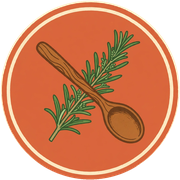
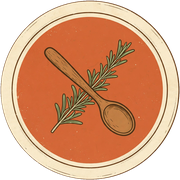
feat(brand): The Recipe Nook - brand pass (name from owner shortlist under branding delegation, regenerated mark + hero, lockups/OG recomposed, seed v2, domain therecipenook.getemoji.site)

diff --git a/wp-content/themes/recipes-site/style.css b/wp-content/themes/recipes-site/style.css
@@ -1,8 +1,8 @@
 /*
 Theme Name: Recipes Site
-Theme URI: https://untitledrecipes.getemoji.site
-Description: Child theme of Viral Reader for UNTITLED RECIPES SITE (PLACEHOLDER BRAND — the real name lands in the brand pass; the one config place is content/site-profile.json) — a UK recipes and kitchen know-how site: breakfasts, mains, desserts & baking, quick & easy recipes, kitchen tips and cooking guides. Warm light skin, multi-rail homepage, two-axis taxonomy (pillar categories + cuisine/method/occasion/diet tag hubs), recipe-native on the kepoli engine (build-v9 recipe card + schema.org/Recipe from the plugin, vr_noun=recipe). All presentation lives in assets/recipes-site.css (inlined by functions.php); this file carries the header only.
-Author: UNTITLED RECIPES SITE Team
+Theme URI: https://therecipenook.getemoji.site
+Description: Child theme of Viral Reader for The Recipe Nook (brand decided 2026-11-06; the one config place is content/site-profile.json) — a UK recipes and kitchen know-how site: breakfasts, mains, desserts & baking, quick & easy recipes, kitchen tips and cooking guides. Warm light skin, multi-rail homepage, two-axis taxonomy (pillar categories + cuisine/method/occasion/diet tag hubs), recipe-native on the kepoli engine (build-v9 recipe card + schema.org/Recipe from the plugin, vr_noun=recipe). All presentation lives in assets/recipes-site.css (inlined by functions.php); this file carries the header only.
+Author: The Recipe Nook Team
 Template: viral-reader
 Version: 1.0.0
 Text Domain: recipes-site

diff --git a/brand/brand_compose.py b/brand/brand_compose.py
@@ -1,20 +1,21 @@
 #!/usr/bin/env python3
-"""Recipes site (PLACEHOLDER BRAND) brand pack: icon set, logo lockups, OG card +
+"""The Recipe Nook brand pack: icon set, logo lockups, OG card +
 theme assets from generated art.
 
 Type is composited here (Anton), never baked by an image model. Run from the repo root:
     python3 brand/brand_compose.py
 Reads the two raw generations in this folder and writes the pack here, the child theme's
-assets/brand/ set, and content/images/. When the owner picks the real brand, regenerate
-the mark/hero, change the lockup text below, and re-run."""
+assets/brand/ set, and content/images/. Brand decided 2026-11-06: The Recipe Nook
+(owner delegated branding; picked from his shortlist). To refresh the pack, replace the
+raw art, keep the lockup text below in sync with content/site-profile.json, and re-run."""
 from PIL import Image, ImageDraw, ImageFont, ImageOps
 import os
 
 BASE = os.path.dirname(os.path.abspath(__file__))
 REPO = os.path.dirname(BASE)
 FONT = os.path.expanduser('~/.fonts/Anton-Regular.ttf')
-MARK = f'{BASE}/media-generation-recipes-site-mark-0-b9895246-6cf7-49c4-b437-67087f4ffdb9.webp'
-HERO = f'{BASE}/media-generation-recipes-site-hero-0-ec6d04b5-831e-4bc9-99a2-d353adc425c7.webp'
+MARK = f'{BASE}/media-generation-recipenook-mark-0-ded535e9-360b-401f-8ea4-e870726acf46.webp'
+HERO = f'{BASE}/media-generation-recipenook-hero-0-f7eca9fb-42ec-4a39-8079-d7a6d2d4608e.webp'
 THEME_BRAND = f'{REPO}/wp-content/themes/recipes-site/assets/brand'
 CONTENT_IMG = f'{REPO}/content/images'
 os.makedirs(THEME_BRAND, exist_ok=True)
@@ -30,8 +31,8 @@ GOLD = (217, 164, 65)
 art = Image.open(MARK).convert('RGB')
 S = min(art.size)
 art = art.crop(((art.width - S) // 2, (art.height - S) // 2, (art.width + S) // 2, (art.height + S) // 2)).resize((1024, 1024), Image.LANCZOS)
-# The badge fills ~82% of the frame, centred: crop to it, then circular-mask.
-art = art.crop((92, 92, 932, 932)).resize((1024, 1024), Image.LANCZOS)
+# The badge spans 132-1476px of the 1600px art (84-945 at 1024 scale), centred: crop to it, then circular-mask.
+art = art.crop((84, 84, 945, 945)).resize((1024, 1024), Image.LANCZOS)
 mask = Image.new('L', (1024, 1024), 0)
 md = ImageDraw.Draw(mask)
 md.ellipse([4, 4, 1020, 1020], fill=255)
@@ -49,7 +50,7 @@ def lockup(col_main, col_accent, path):
     f_title = ImageFont.truetype(FONT, 104)
     f_tag = ImageFont.truetype(FONT, 38)
     tmp = ImageDraw.Draw(Image.new('RGBA', (10, 10)))
-    parts = [('UNTITLED ', col_main), ('RECIPES', col_accent)]
+    parts = [('THE RECIPE ', col_main), ('NOOK', col_accent)]
     tw = sum(tmp.textlength(t, font=f_title) for t, _c in parts)
     tag = 'R E C I P E S   ·   T I P S   ·   G U I D E S'
     gw = tmp.textlength(tag, font=f_tag)
@@ -80,9 +81,9 @@ emb = icon.resize((150, 150), Image.LANCZOS)
 og.paste(emb, (48, 630 - 150 - 42), emb)
 f = ImageFont.truetype(FONT, 84)
 x = 224
-d.text((x, 630 - 172), 'UNTITLED ', font=f, fill=CREAM)
-x += d.textlength('UNTITLED ', font=f)
-d.text((x, 630 - 172), 'RECIPES', font=f, fill=GOLD)
+d.text((x, 630 - 172), 'THE RECIPE ', font=f, fill=CREAM)
+x += d.textlength('THE RECIPE ', font=f)
+d.text((x, 630 - 172), 'NOOK', font=f, fill=GOLD)
 og.save(f'{BASE}/og.jpg', quality=88)
 print('og done')
 

diff --git a/seed/seed.php b/seed/seed.php
@@ -2,8 +2,8 @@
 /**
  * Recipes site seed — run by docker/site-init.sh via `wp eval-file` on every start.
  *
- * PLACEHOLDER BRAND: the site name/tagline come from content/site-profile.json
- * (brand.name currently "UNTITLED RECIPES SITE" until the owner picks the real brand).
+ * BRAND: the site name/tagline come from content/site-profile.json
+ * (brand.name = "The Recipe Nook" since the 2026-11-06 brand pass).
  *
  * Brand facts are read from content/site-profile.json (the ONE config place); the literals
  * below are fallbacks and must stay in sync with that file. A brand change is applied by
@@ -16,10 +16,10 @@
 
 if ( ! defined( 'ABSPATH' ) ) { exit; }
 
-const RC_SEED_VERSION = 1;
+const RC_SEED_VERSION = 2;
 const RC_DATA         = '/opt/site/data';
 const RC_BRAND_DIR    = WP_CONTENT_DIR . '/themes/recipes-site/assets/brand';
-const RC_AUTHOR_BIO   = 'UNTITLED RECIPES SITE is cooked and written by UK home cooks and recipe writers. Every recipe is written to be cooked from: plain steps, UK measurements first (grams, Celsius and gas mark), and times and yields stated exactly as they are — we never invent testing claims, ratings or results.';
+const RC_AUTHOR_BIO   = 'The Recipe Nook is cooked and written by UK home cooks and recipe writers. Every recipe is written to be cooked from: plain steps, UK measurements first (grams, Celsius and gas mark), and times and yields stated exactly as they are — we never invent testing claims, ratings or results.';
 
 require_once ABSPATH . 'wp-admin/includes/media.php';
 require_once ABSPATH . 'wp-admin/includes/file.php';
@@ -76,7 +76,7 @@ function rc_page( $slug, $title, $html, $status = 'publish' ) {
 function rc_seed_author() {
 	$p    = rc_profile();
 	$uid  = rc_admin_id();
-	$name = (string) ( $p['writer']['name'] ?? 'UNTITLED RECIPES SITE Team' );
+	$name = (string) ( $p['writer']['name'] ?? 'The Recipe Nook Team' );
 	$bio  = (string) ( $p['writer']['bio'] ?? RC_AUTHOR_BIO );
 	wp_update_user( array( 'ID' => $uid, 'display_name' => $name, 'nickname' => $name, 'description' => $bio ) );
 	$avatar = rc_brand_media( 'recipes-site-icon-512.png', $name );
@@ -124,7 +124,7 @@ function rc_hubs() {
 
 function rc_seed_site() {
 	$p    = rc_profile();
-	$name = (string) ( $p['brand']['name'] ?? 'UNTITLED RECIPES SITE' );
+	$name = (string) ( $p['brand']['name'] ?? 'The Recipe Nook' );
 	$tag  = (string) ( $p['brand']['tagline'] ?? 'Recipes · Kitchen Tips · Cooking Guides' );
 	$mail = rc_site_email();
 

diff --git a/wp-content/themes/recipes-site/functions.php b/wp-content/themes/recipes-site/functions.php
@@ -1,6 +1,6 @@
 <?php
 /**
- * UNTITLED RECIPES SITE (theme slug "recipes-site") — child theme of Viral Reader for a UK
+ * The Recipe Nook (theme slug "recipes-site") — child theme of Viral Reader for a UK
  * recipes and kitchen know-how site, read mostly from social feeds and search on phones.
  * PLACEHOLDER BRAND: the working title lives in content/site-profile.json; when the owner
  * picks the real brand it is applied in one pass (this file's strings included).

diff --git a/brand/BRAND.md b/brand/BRAND.md
@@ -1,18 +1,19 @@
-# UNTITLED RECIPES SITE — brand sheet (PLACEHOLDER)
+# The Recipe Nook — brand sheet
 
-**⚠ PLACEHOLDER BRAND.** The owner is picking the real name in parallel. Everything on
-this sheet is the placeholder kit: when the pick lands, regenerate the mark/hero in the
-new identity, change the lockup text in `brand_compose.py`, re-run it, replace
-`brand.name` in `content/site-profile.json`, bump `RC_SEED_VERSION`, done.
+**Brand decided 2026-11-06.** The owner delegated branding and media ("you take care
+of branding and medias"); "The Recipe Nook" was picked from his shortlist under that
+delegation. Mark + hero were regenerated in this identity, the lockup text in
+`brand_compose.py` carries the name (type composited, never baked by an image model),
+`brand.name` in `content/site-profile.json` is the single source, and
+`RC_SEED_VERSION` was bumped to 2.
 
-**Name:** UNTITLED RECIPES SITE
+**Name:** The Recipe Nook
 **Tagline:** Recipes · Tips · Guides
 **What it is:** UK recipes and kitchen know-how publication on the kepoli engine
 (build-v9 + viral-reader): breakfasts & brunch, main dishes, desserts & baking,
 quick & easy recipes, kitchen tips and cooking guides — written for UK home cooks
-(UK measurements first: grams, Celsius, gas mark; British English). Planned domain
-follows the brand (placeholder compose default: `untitledrecipes.getemoji.site` —
-not registered, not configured).
+(UK measurements first: grams, Celsius, gas mark; British English). Domain:
+`therecipenook.getemoji.site` (free subdomain on getemoji.site, the sibling pattern).
 
 ## Mark
 A wooden spoon and a rosemary sprig crossed inside a terracotta badge with a cream
@@ -22,7 +23,7 @@ text baked in. Files: `icon-512.png` (site icon), `apple-touch-180.png`,
 text, dark backgrounds). Type is composited (`brand_compose.py`, Anton), never baked
 by an image model.
 
-## Palette (placeholder)
+## Palette
 - Warm cream (base): `#FAF5EC` / soft `#F3EAD9` / surface `#FFFDF8`
 - Herb green (primary): `#3E6B34`, dark `#2F5227`
 - Terracotta (secondary): `#C4552B`, bright `#D97B3F`

diff --git a/README.md b/README.md
@@ -1,10 +1,10 @@
-# UNTITLED RECIPES SITE — placeholder brand (Style A self-seeding WordPress site)
+# The Recipe Nook (Style A self-seeding WordPress site)
 
-> **STATUS (2026-11-06): scaffold built + local QA passed. NOT launched.**
-> Brand name pending owner pick — the placeholder `UNTITLED RECIPES SITE`
-> lives in `content/site-profile.json` (the single config place) plus the
-> spots listed in `SITE-CARD-DRAFT.md`. No GitHub repo, no DNS, no Coolify
-> project, no deployment yet — those are owner-gated launch steps.
+> **STATUS (2026-11-06): scaffold built + local QA passed; brand pass done.**
+> Brand: **The Recipe Nook** (owner delegated branding; picked from his
+> shortlist). The name lives in `content/site-profile.json` (the single config
+> place) plus the spots listed in `SITE-CARD-DRAFT.md`. Launch (GitHub, DNS,
+> Coolify, deploy, first batch) follows the sibling sequence.
 
 A tips & recipes publication on the network pattern shared with Dales &
 Cobbles and Storyline UK: Docker WordPress, a self-seeding germ pattern,
@@ -47,10 +47,10 @@ docker compose -f docker-compose.yml -f docker-compose.local.yml down  # volumes
 
 ## Files of interest
 
-- `content/site-profile.json` — brand (placeholder), domain (placeholder),
+- `content/site-profile.json` — brand, domain,
   pillars, hubs, pages, feature flags. The ONE config place.
 - `seed/seed.php` — idempotent seeder (marker `rc_seed_version`).
-- `wp-content/themes/recipes-site/` — child theme (placeholder warm palette;
-  real palette arrives with the brand pass).
-- `brand/` — placeholder brand pack (original generated art) + `brand_compose.py`.
+- `wp-content/themes/recipes-site/` — child theme (warm cream / herb green /
+  terracotta palette).
+- `brand/` — brand pack (original generated art) + `brand_compose.py`.
 - `SITE-CARD-DRAFT.md` — full site card + placeholder TODOs + launch remainder.
